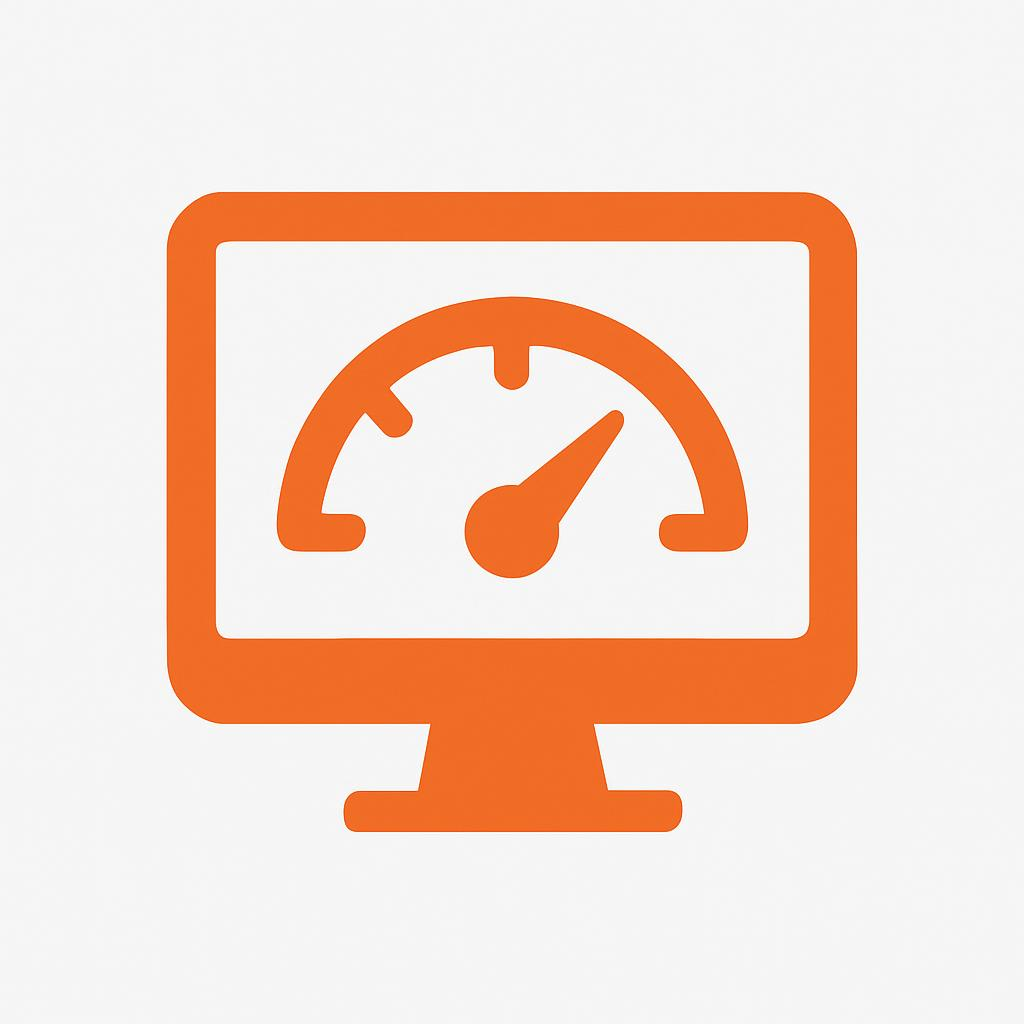
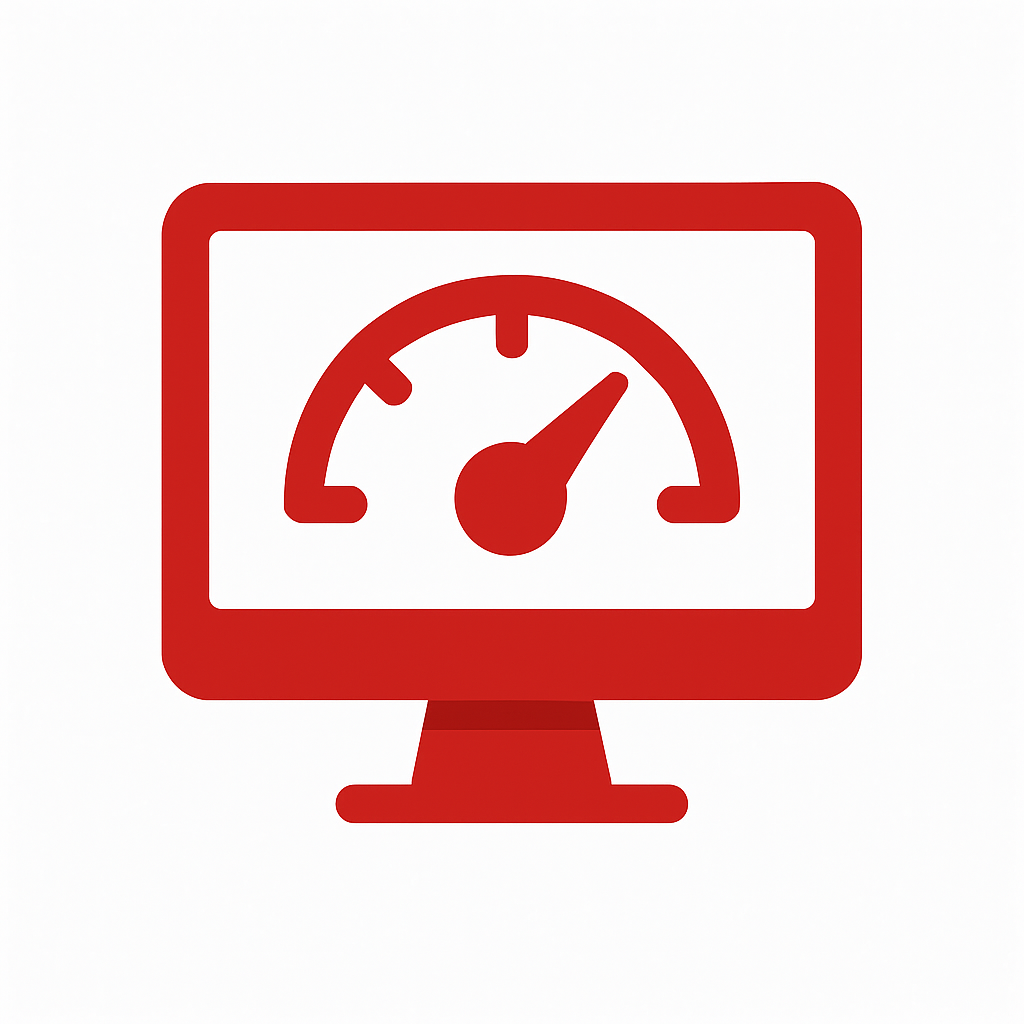
v0.1.5

Changed region(s): [[0.1562, 0.1562, 0.8438, 0.8125]]

diff --git a/imh-sys-snap.php b/imh-sys-snap.php
@@ -11,7 +11,7 @@
  *   - CWP:       /usr/local/cwpsrv/htdocs/resources/admin/modules/imh-sys-snap.php
  *
  * Maintainer: InMotion Hosting
- * Version: 0.1.4
+ * Version: 0.1.5
  */
 
 
@@ -225,7 +225,7 @@ if ($isCPanelServer) {
     .imh-box a,
     .imh-footer-box a,
     .imh-box--narrow a {
-        color: rgb(175, 82, 32);
+        color: #C52227;
     }
 
     .panel-body a:hover,
@@ -236,7 +236,7 @@ if ($isCPanelServer) {
     .imh-box a:focus,
     .imh-footer-box a:focus,
     .imh-box--narrow a:focus {
-        color: rgb(97, 51, 27);
+        color: #d33a41;
     }
 
     .imh-btn {
@@ -246,7 +246,7 @@ if ($isCPanelServer) {
     }
 
     .imh-red-btn {
-        background: #f44336;
+        background: #C52227;
         color: #fff;
         border: none;
     }
@@ -312,8 +312,8 @@ if ($isCPanelServer) {
 
     .tabs-nav button.active {
         background: #fff;
-        border-bottom: 2px solid rgb(175, 82, 32);
-        color: rgb(175, 82, 32);
+        border-bottom: 2px solid #C52227;
+        color: #C52227;
         font-weight: 600;
     }
 

diff --git a/index.php b/index.php
@@ -11,7 +11,7 @@
  *   - CWP:       /usr/local/cwpsrv/htdocs/resources/admin/modules/imh-sys-snap.php
  *
  * Maintainer: InMotion Hosting
- * Version: 0.1.4
+ * Version: 0.1.5
  */
 
 
@@ -225,7 +225,7 @@ if ($isCPanelServer) {
     .imh-box a,
     .imh-footer-box a,
     .imh-box--narrow a {
-        color: rgb(175, 82, 32);
+        color: #C52227;
     }
 
     .panel-body a:hover,
@@ -236,7 +236,7 @@ if ($isCPanelServer) {
     .imh-box a:focus,
     .imh-footer-box a:focus,
     .imh-box--narrow a:focus {
-        color: rgb(97, 51, 27);
+        color: #d33a41;
     }
 
     .imh-btn {
@@ -246,7 +246,7 @@ if ($isCPanelServer) {
     }
 
     .imh-red-btn {
-        background: #f44336;
+        background: #C52227;
         color: #fff;
         border: none;
     }
@@ -312,8 +312,8 @@ if ($isCPanelServer) {
 
     .tabs-nav button.active {
         background: #fff;
-        border-bottom: 2px solid rgb(175, 82, 32);
-        color: rgb(175, 82, 32);
+        border-bottom: 2px solid #C52227;
+        color: #C52227;
         font-weight: 600;
     }
 

diff --git a/README.md b/README.md
@@ -1,4 +1,4 @@
-# imh-sys-snap, v0.1.4
+# imh-sys-snap, v0.1.5
 sys-snap Web Interface for cPanel/WHM and CWP
 
 - cPanel/WHM path: `/usr/local/cpanel/whostmgr/docroot/cgi/imh-sys-snap/index.php`
